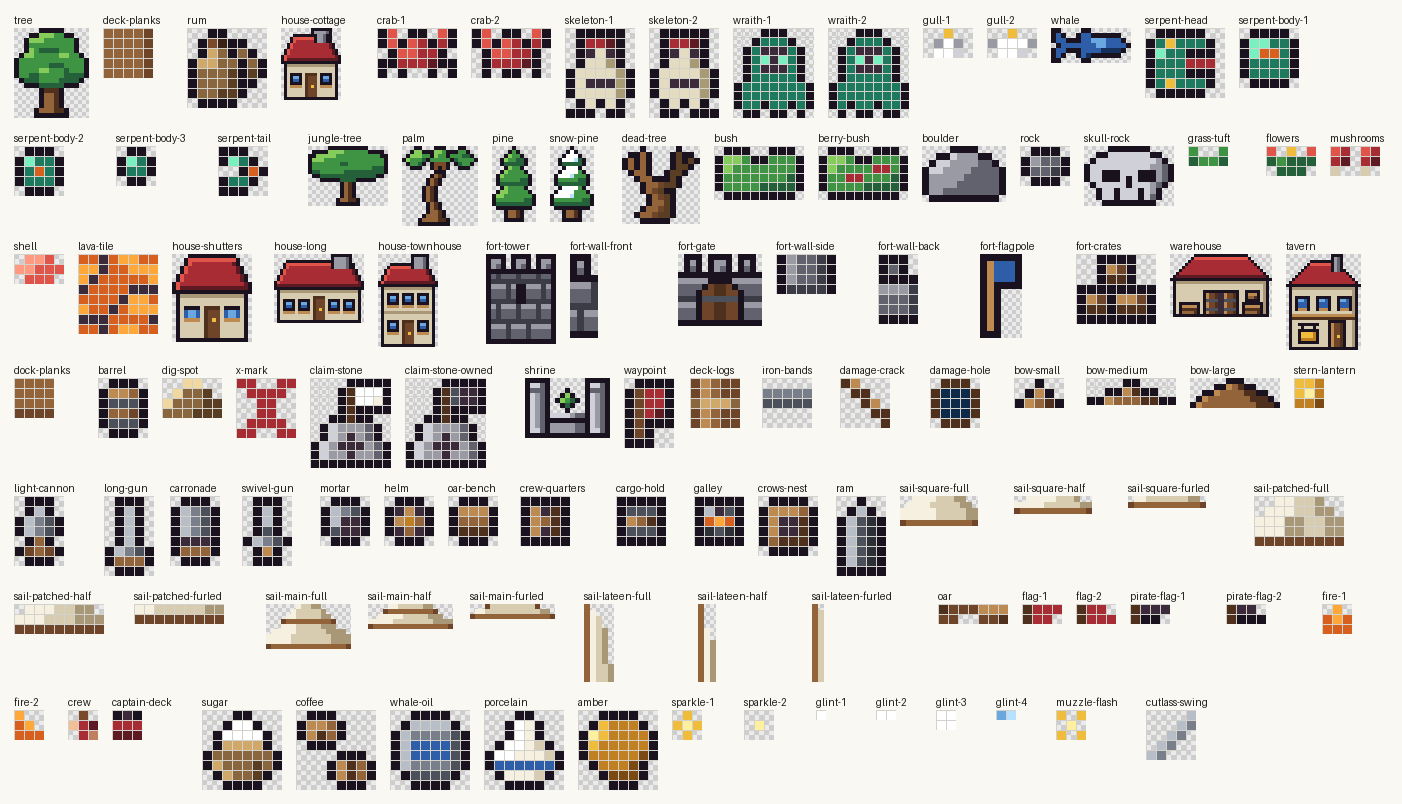
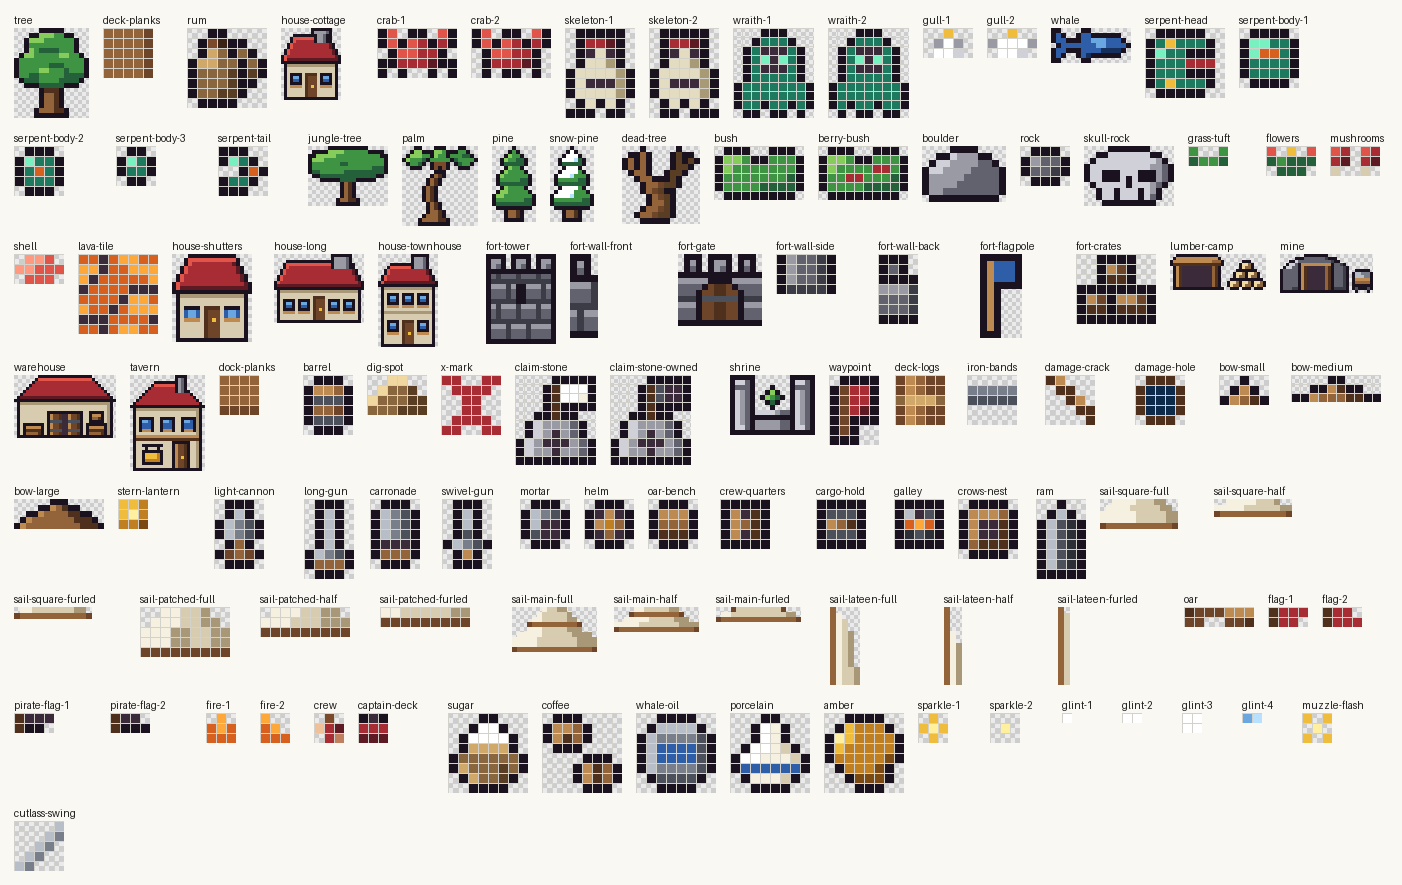
Approve lumber camp and mine
Claude-Session: https://claude.ai/code/session_017hBigdyyagtCxF8RX9TYQB

diff --git a/src/art/redraw.ts b/src/art/redraw.ts
@@ -60,6 +60,8 @@ const ROWS: Record<string, string[]> = {
   'lava-tile': ['qqKqQQqq', 'QQKqqQQQ', 'QKqqqqqQ', 'KqqqqKKK', 'qqqqKQQq', 'QqqKqQQQ', 'KKKqqqqK', 'qqKqQQqq'],
   'light-cannon': ['.kkk.', '.kNk.', 'kNnMk', 'kNnMk', '.kvk.', 'kWvWk', '.kkk.'],
   'long-gun': ['.kkk.', '.kNk.', '.kNk.', '.kNk.', '.kNk.', 'kNnMk', 'kvvvk', '.kkk.'],
+  'lumber-camp': ['..kkkkkkkkkkkkkk................', '.kVVVVVVVVVVVVVVk...............', 'kVVVVVVVVVVVVVvvvk......kkk.....', 'kwwwwwwwwwwwwwwwwk.....kFFDk....', '.kVwKKKKKKKKKKvwk......kFDDk....', '.kVwKKKKKKKKKKvwk.....kkkkkkk...', '.kVwKKKKKKKKKKvwk....kFFDkFFDk..', '.kVwKKKKKKKKKKvwk....kFDDkFDDk..', '.kVwKKKKKKKKKKvwk...kkkkkkkkkkk.', '.kVwKKKKKKKKKKvwk..kFFDkFFDkFFDk', '.kVwKKKKKKKKKKvwk..kFDDkFDDkFDDk', '.kkkkkkkkkkkkkkkkk..kkk.kkk.kkk.'],
+  'mine': ['........kkkkkkkk...............', '.....kkkTTTTTTTtkkk............', '...kkUTTTTTTTTTTTtkk...........', '..kUUTkVVVVVVVVVVkTTtk.........', '.kUUTTkVwKKKKKKvwkTTTtk........', 'kTTTTTkVwKKKKKKvwkTTTtk..kkkkk.', 'kTTTTTkVwKKKKKKvwkTTTtk.kNNnnnk', 'kTTTTTkVwKKKKKKvwkTTTtk.kNNNnnk', 'kTTTTTkVwKKKKKKvwkTTTtk.kVVVVVk', 'kTTTTTkVwKKKKKKvwkTTTtk.kvvvvvk', 'kTTTTTkVwKKKKKKvwkTTTtk.kkkkkkk', 'kTTTttkVwKKKKKKvwkttttk.kMkkkMk', 'kkkkkkkkkkkkkkkkkkkkkkk..k...k.'],
   'mortar': ['.kkk.', 'kNnMk', 'kNKKk', 'kMKKk', '.kkk.'],
   'mushrooms': ['eR.eR', 'Rr.Rr', 'C..C.'],
   'muzzle-flash': ['y.y', '.Y.', 'y.y'],

diff --git a/art/work/_batches/island-1/review-2.md b/art/work/_batches/island-1/review-2.md
@@ -1,0 +1,28 @@
+# island-1 review, round 2
+
+Round-1 sources now match the notes (checked against art/src/*.txt and sheet-1.png). Lumber-camp and mine pass. Plantation, fishery and distillery still have a MAJOR each. Sizes: plantation 38x21, fishery 32x18, distillery 28x20, all flexible and fine.
+
+## plantation: FAIL
+Round-1 check: #1 banding fixed (two tone H/G, h steps only). #2 y speckle fixed (4 ears, all in the upper half). #3 D tub fixed (base row is G). #4 tip stagger fixed (pointed, flat, leaning). New issue below remains.
+1. [MAJOR] plantation crops (16..21, 0..19), (24..29, 2..19), (32..37, 1..19): each crop is still a perfectly straight 4 px wide capsule with a k outline all the way round, rounded at the top. The silhouette alone says cactus or green bottle, not sugar cane or corn. The "leaf" pixels (22,8), (30,11), (31,14) are single `G` pixels sandwiched between `k` pixels inside the 2 px gap, so they read as dark links or fence rungs between pillars, not leaves, and they do not break any silhouette. Fix: make leaves break the outline. On each crop, replace the outline `k` on 2 rows (alternating sides, e.g. rows 8 and 12 on the left, rows 10 and 14 on the right) with a 2 px diagonal leaf `G`/`H` plus `k` tip that sticks out into the gap, and give the top of each crop a 2 px leaf spray (a `H` pixel either side of the tip, so the head is wider than the stalk) in place of the plain rounded cap.
+2. [MINOR] plantation crops: `h` step pixels at (18,10), (18,15), (25,7), (26,12), (33,13) read as scatter on a 4 px stalk. Fix: keep at most one `h` per crop.
+
+## fishery: FAIL
+Round-1 check: #1 fish redrawn 3 wide x 4 tall with k string, same x3, so fixed in construction (but see 3). #2 hut wall now 10 rows, fixed. #3 brace added, but wrongly (see 2).
+1. [MAJOR] fishery rack (15..31, 0..17): two 1 px posts 12 px apart and 18 rows tall with a beam on top and nothing below row 6 for 11 rows. It reads as a gateway or torii, not a drying rack, and it is twice the height of the hut roof line for no reason; the fish occupy 4 of 18 rows. Fix: cut the posts down so the rack is about 12 rows tall (delete rows 8..11 of the rack columns 15..31 and let the posts and the hut share the bottom row), keeping the fish under the beam.
+2. [MAJOR] fishery braces (18..19, 8..9) and (27..28, 8..9): the `w` pixels sit 6 rows under the beam, rise away from the posts and end in mid air, so they are orphans that read as dirt, not braces. Fix: delete them; if a brace is wanted put a single `w` at (18,2) and (28,2) (left and right of the beam underside, touching post and beam) and shift fish 1 and 3 in by 1 px if they collide.
+3. [MINOR] fishery fish (18..20, 3..6), (22..24, 3..6), (26..28, 3..6): 3x3 `N/L/n` squares with no head taper read as ice cubes or cloth at 1x. Fix: make each tail a forked `k.k` at row 6 (x18 and x20, x22 and x24, x26 and x28) so the fish has a tail, (the 3x3 bodies stay as they are).
+
+## distillery: FAIL
+Round-1 check: #1 chimney now 4 rows above roof, no mid band, roof has a right slope: fixed (see MINOR 2). #3 firebox opening centred (x19..22 under pot centre) with Q above the flame: fixed. #2 lyne arm: not fixed in effect (below).
+1. [MAJOR] distillery pot still (17..27, 4..8): the arm leaves the top of the neck, runs right, then drops 2 px and its `kkkk` cap at (24..27,8) lands on the shoulder of the bulb at row 9, enclosing a transparent hole at (23,7..8). The result is a closed loop: the whole object reads as a jug or ewer with a handle, not a still. Fix: the arm must leave the bulb. Widen the sprite by 4, run the arm along rows 5..6 out to x31, drop it as a 2 px `O/o` pipe at x30..31 down to row 12 (clear of the bulb, which ends at x27), and end it in a `k` cap over empty space; remove the hole by filling (23,7) and (23,8) with `o`.
+2. [MINOR] distillery chimney (7..10, 0..8): the 4 px column runs down through the roof to the eave line and splits the roof in two, so it reads as a downpipe on the facade. The approved cottage chimney sits on the roof slope and stops at the roof. Fix: end the chimney at row 5 with a `k` base on the roof, as the cottage does.
+3. [MINOR] distillery bulb (17,5..14): `y` forms a single column highlight along the whole left outline, which is banding. Fix: keep `y` on rows 5..9 only and use `O` below.
+
+## lumber-camp: PASS
+Round-1 check: #1 right post now `v`/`w`, shadow on the right, fixed. #2 bench and log removed, interior is a clear `K` gap, fixed. #3 log ends left, acceptable. Pile is symmetric (tops centred on x25), shed and pile stand on the bottom row, outline and light match the approved set.
+MINOR (does not block): shed roof (14..16,2) `vvv` reads as a stray dark patch; make it `VVV` or continue `v` to the whole last 2 columns on rows 1..2.
+
+## mine: PASS
+Round-1 check: #1 rock banding fixed (one `U` blob top left, `T` base, `t` right edge and bottom row). #2 right post now `v`/`w`, fixed. #3 cart clear of the hill by 1 px, 7 px box, wheels inset, fixed. #4 floor rail removed, fixed. Dome steps are even on both sides, opening fits the captain, standing on the bottom row.
+MINOR (does not block): cart wheels (25,11), (29,11) are single `M` pixels inside `k` and read as stubby feet; widening each to a 2 px `MM` with `k` below would read as wheels.

diff --git a/art/APPROVED.md b/art/APPROVED.md
@@ -72,3 +72,5 @@ Families the critic has passed. Match their style.
 - mushrooms (nature) — round 1
 - shell (nature) — round 1
 - lava-tile (nature) — round 1
+- lumber-camp (buildings) — round 2
+- mine (buildings) — round 2
